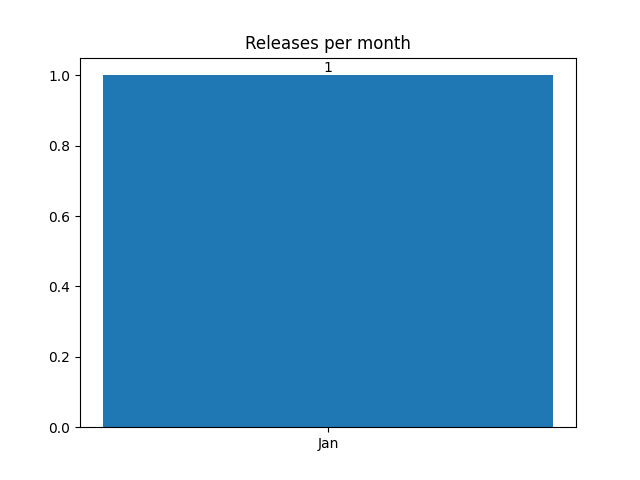
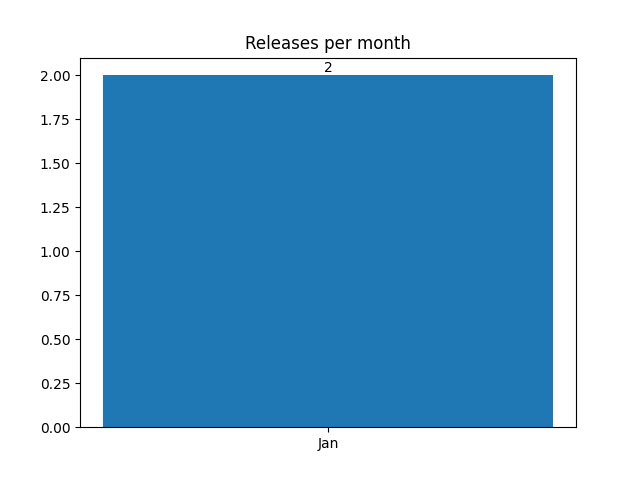
Apply automatic changes

diff --git a/docs/analytics.html b/docs/analytics.html
@@ -464,9 +464,10 @@ td .material-icons { display:inline-flex; vertical-align: top; font-size:1.1rem;
 									data-target="#month-Jan .releases"
 								>
 									<span class="material-icons"></span>
-									1 releases
+									2 releases
 								</button>
 								<ul class="releases collapse">
+									<li><a href="https://github.com/notofonts/bengali/releases/tag/NotoSansBengali-v3.011">NotoSansBengali-v3.011</a></li>
 									<li><a href="https://github.com/notofonts/brahmi/releases/tag/NotoSansBrahmi-v2.004">NotoSansBrahmi-v2.004</a></li>
 								</ul>
 							</td>
